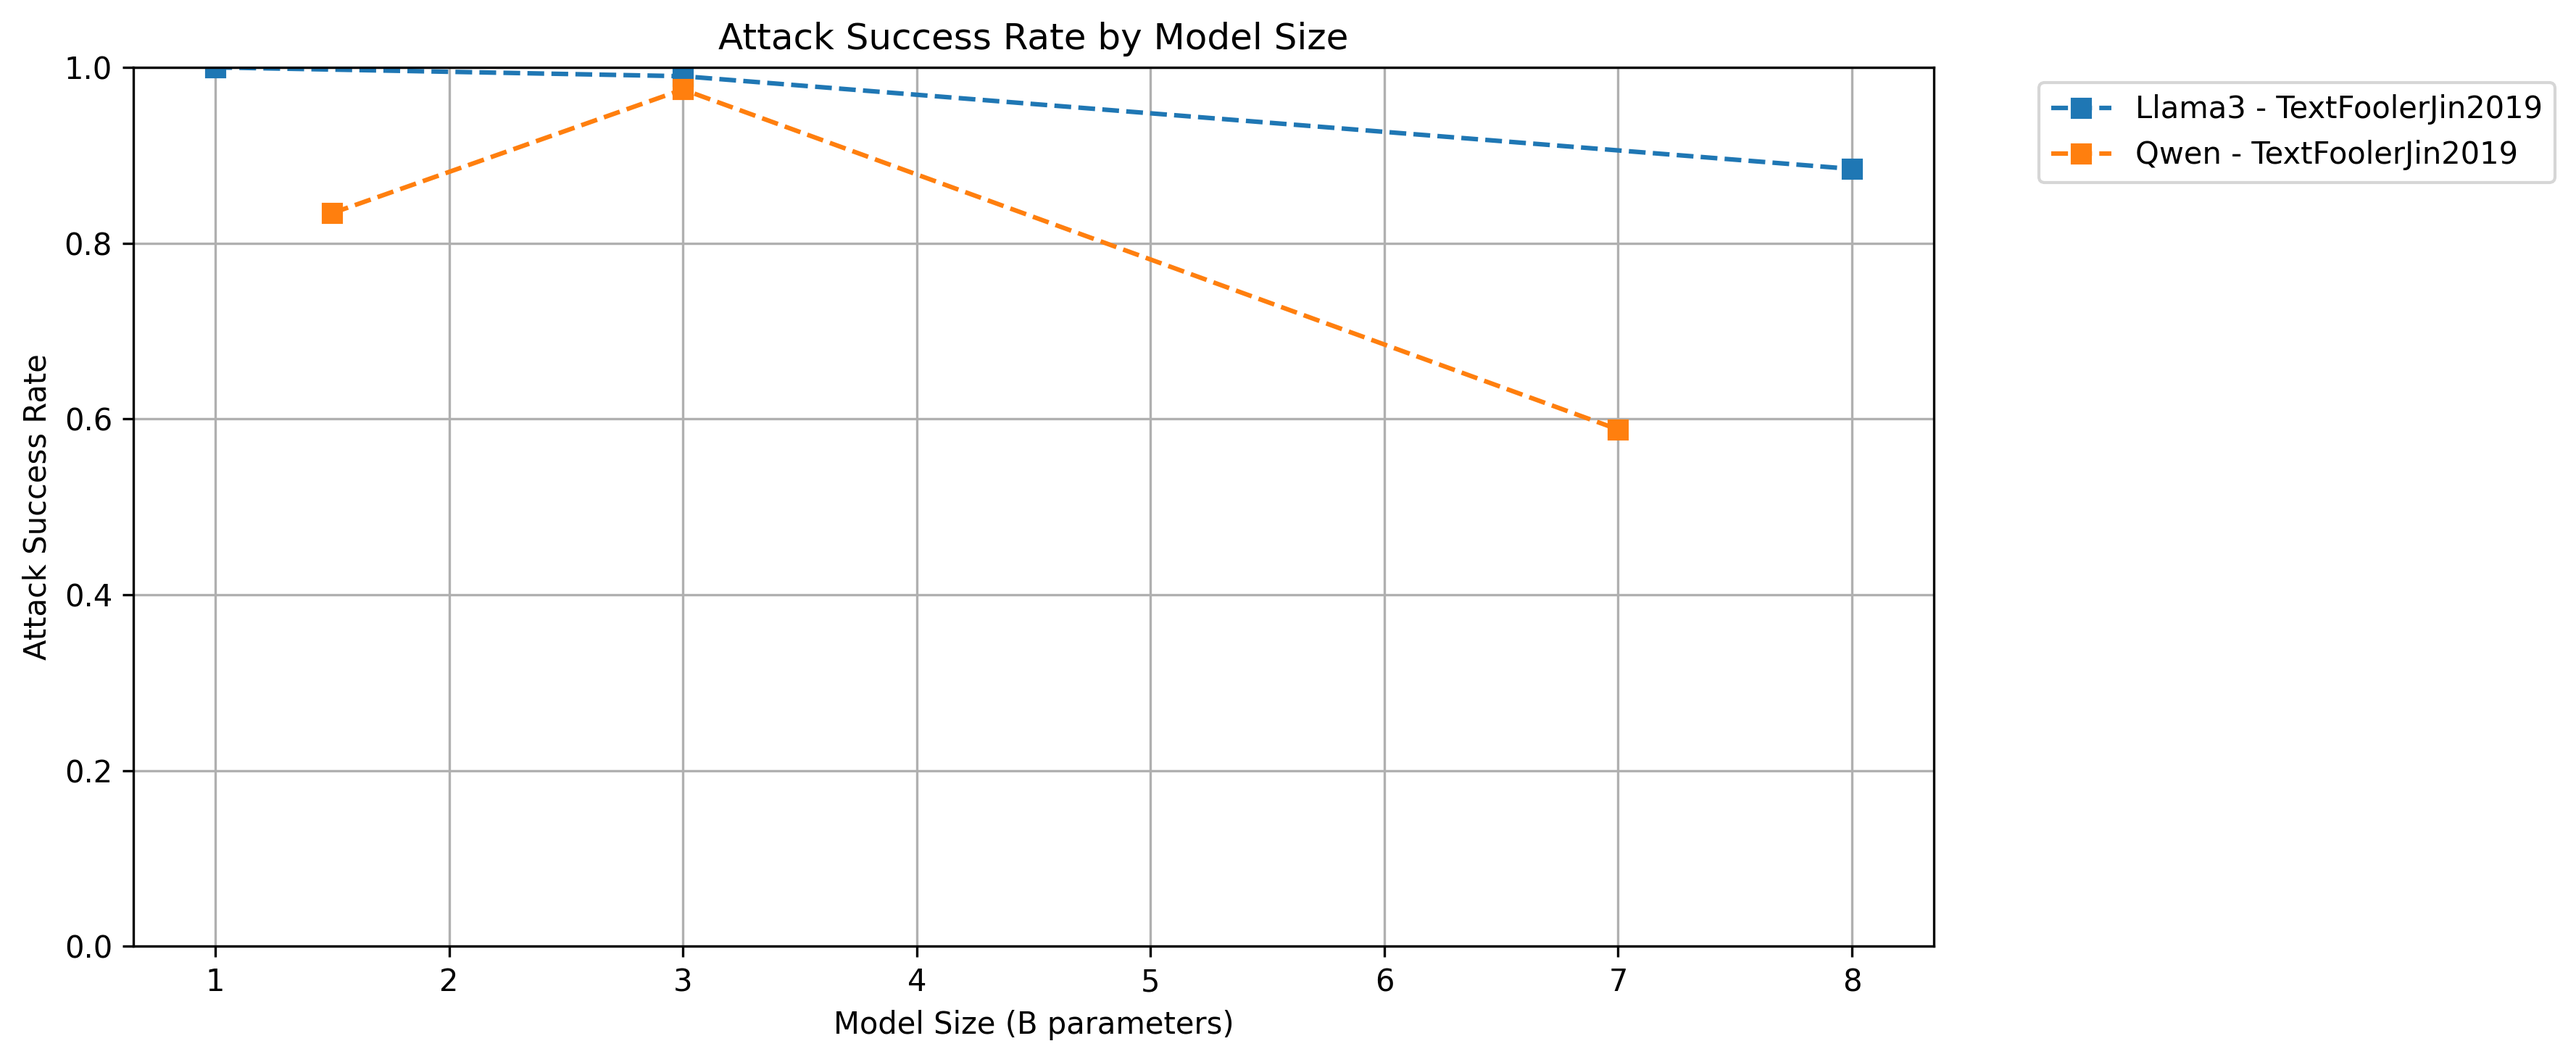
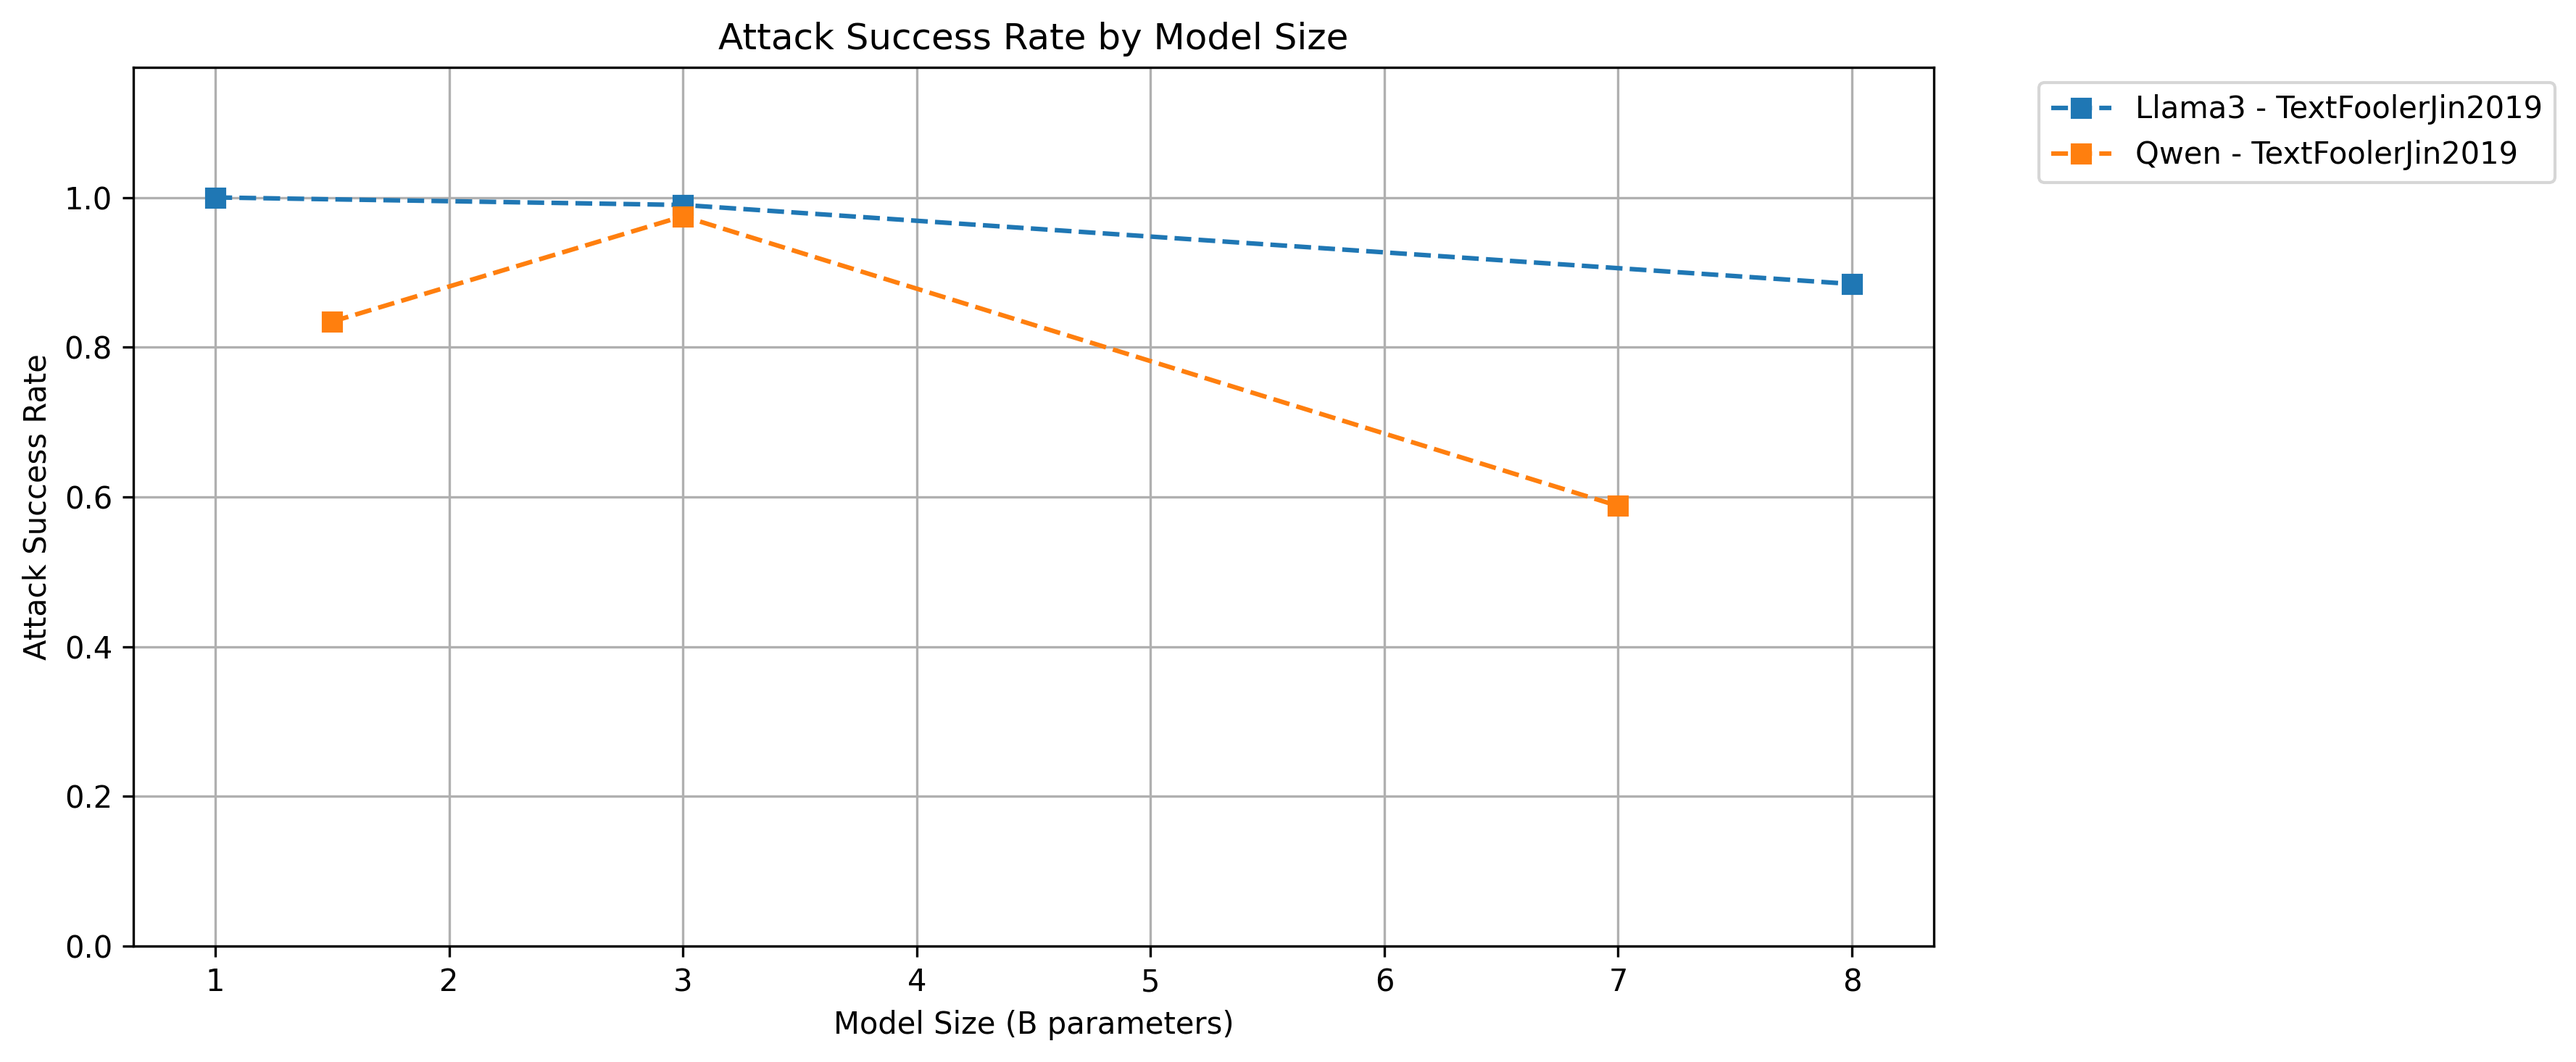
attack plot fixed

diff --git a/results/utils/plotting.py b/results/utils/plotting.py
@@ -93,7 +93,8 @@ def plot_attack_comparison(models, attacks, plot_dir):
     plt.title("Attack Success Rate by Model Size")
     plt.xlabel("Model Size (B parameters)")
     plt.ylabel("Attack Success Rate")
-    plt.ylim(0, 1)  # Set y-axis limits from 0 to 1
+    ymin, ymax = ax.get_ylim()
+    ax.set_ylim(0, ymax * 1.15)
     plt.legend(bbox_to_anchor=(1.05, 1), loc='upper left')
     plt.grid(True)
     plt.tight_layout()

diff --git a/README.md b/README.md
@@ -2,6 +2,7 @@
 
 As large language models (LLMs) grow in size to enhance performance, there remains a limited understanding of how this expansion affects their explainability.
 In this project, we use counterfactuals as our primary approach to post-hoc explainability.
+We use the following definition of ‘counterfactual explanation’: “A counterfactual explanation is a minimal edit of the input with the words or phrases crucial for classification changed, revealing what should have been different to observe the opposite outcome.”
 
 We evaluate multiple models across different scales by generating two types of counterfactual explanations:
  - Introspections: Self-generated counterfactuals, where the model attempts to produce an alternative input that flips its own prediction.
